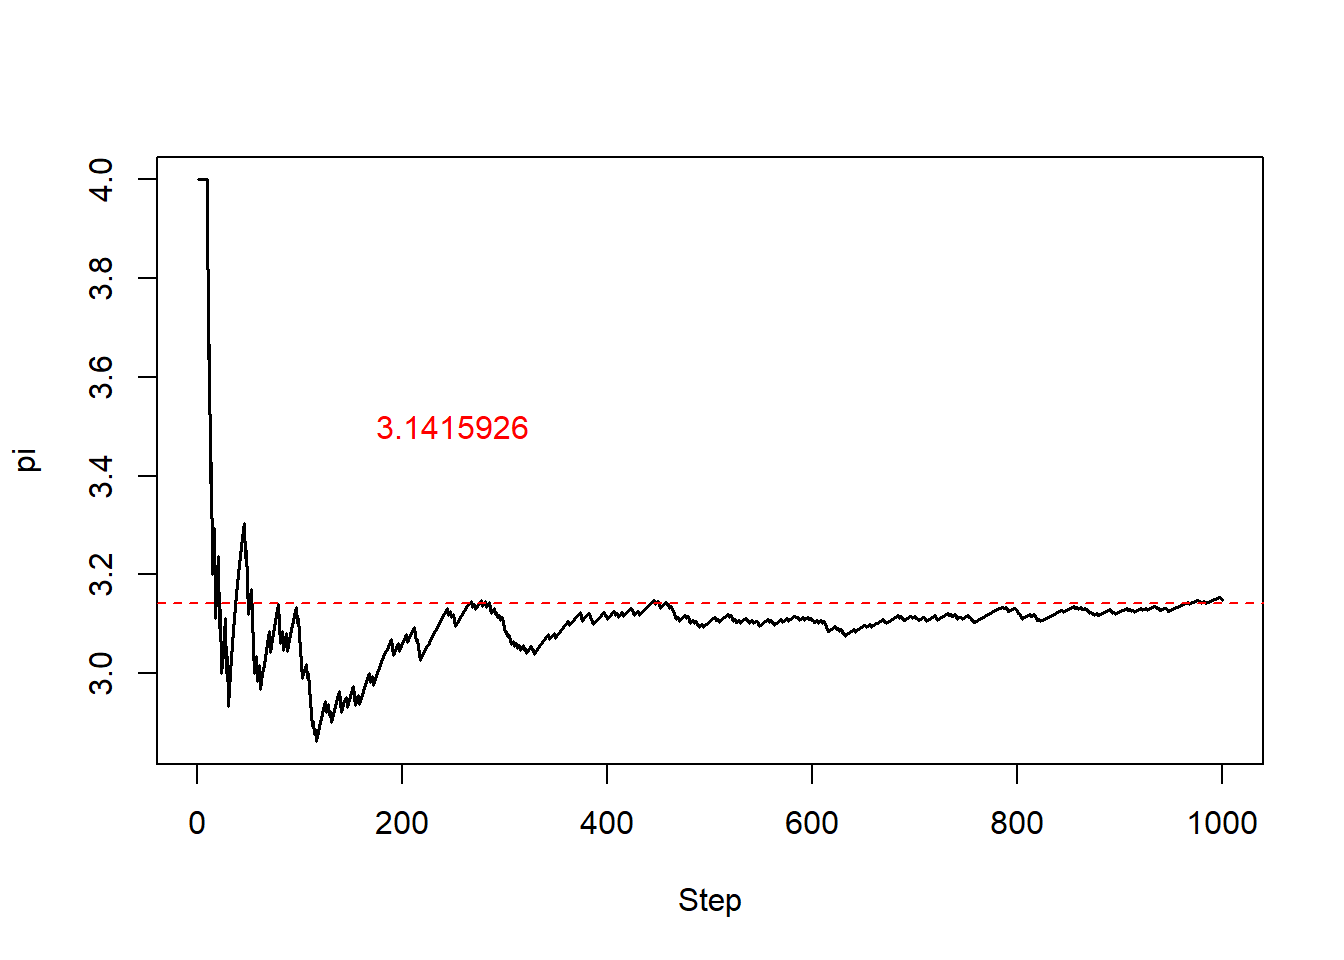
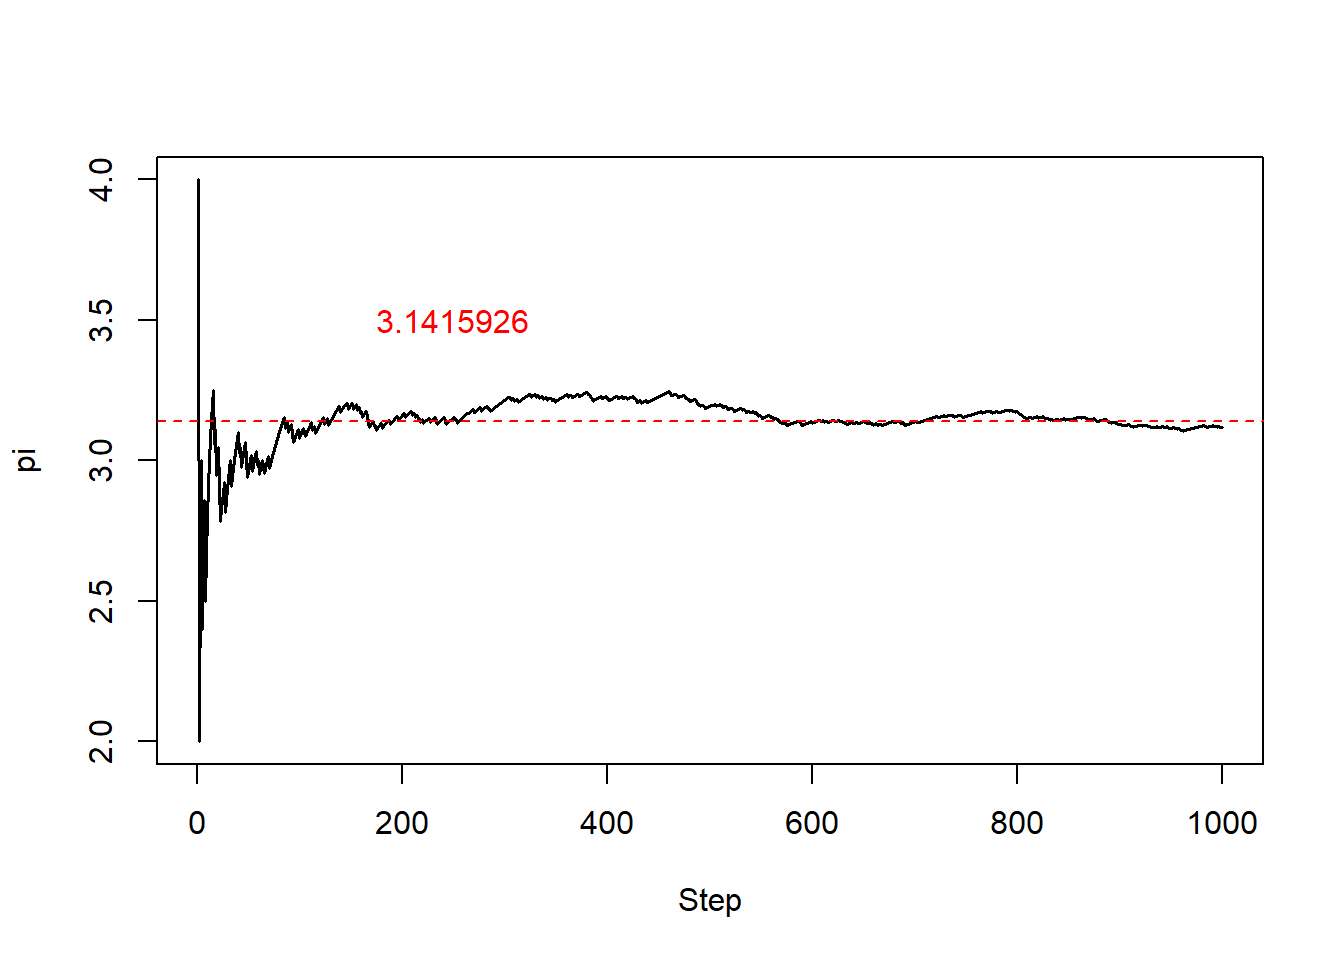
Update schdule

diff --git a/docs/Section_01.html b/docs/Section_01.html
@@ -723,7 +723,7 @@ Hopefully, this course will make your life easier when it comes to interpret and
 <span id="cb2-7"><a href="#cb2-7"></a><span class="kw">text</span>(<span class="fl">0.25</span><span class="op">*</span>TotalDraw,<span class="fl">3.5</span>,<span class="st">&quot;3.1415926&quot;</span>,<span class="dt">cex=</span><span class="dv">1</span>,<span class="dt">col=</span><span class="st">&quot;red&quot;</span>)</span></code></pre></div>
 <p><img src="Section_01_files/figure-html/unnamed-chunk-2-1.png" width="672" /></p>
 <div class="sourceCode" id="cb3"><pre class="sourceCode r"><code class="sourceCode r"><span id="cb3-1"><a href="#cb3-1"></a><span class="kw">print</span>(<span class="kw">paste</span>(<span class="st">&quot;Mean Pi from the last 100 steps is: &quot;</span>,<span class="kw">mean</span>(Results[TotalDraw<span class="dv">-99</span><span class="op">:</span>TotalDraw])))</span></code></pre></div>
-<pre><code>## [1] &quot;Mean Pi from the last 100 steps is:  3.10379936194361&quot;</code></pre>
+<pre><code>## [1] &quot;Mean Pi from the last 100 steps is:  3.15074396988628&quot;</code></pre>
 <p>Simulation with 100,000 random points yields a better result</p>
 <div class="sourceCode" id="cb5"><pre class="sourceCode r"><code class="sourceCode r"><span id="cb5-1"><a href="#cb5-1"></a><span class="co"># Draw 1E5 points</span></span>
 <span id="cb5-2"><a href="#cb5-2"></a>TotalDraw &lt;-<span class="st"> </span><span class="fl">1E5</span></span>
@@ -734,7 +734,7 @@ Hopefully, this course will make your life easier when it comes to interpret and
 <span id="cb5-7"><a href="#cb5-7"></a><span class="kw">text</span>(<span class="fl">0.25</span><span class="op">*</span>TotalDraw,<span class="fl">3.5</span>,<span class="st">&quot;3.1415926&quot;</span>,<span class="dt">cex=</span><span class="dv">1</span>,<span class="dt">col=</span><span class="st">&quot;red&quot;</span>)</span></code></pre></div>
 <p><img src="Section_01_files/figure-html/unnamed-chunk-3-1.png" width="672" /></p>
 <div class="sourceCode" id="cb6"><pre class="sourceCode r"><code class="sourceCode r"><span id="cb6-1"><a href="#cb6-1"></a><span class="kw">print</span>(<span class="kw">paste</span>(<span class="st">&quot;Mean Pi from the last 100 steps is: &quot;</span>,<span class="kw">mean</span>(Results[TotalDraw<span class="dv">-99</span><span class="op">:</span>TotalDraw])))</span></code></pre></div>
-<pre><code>## [1] &quot;Mean Pi from the last 100 steps is:  3.15114207680034&quot;</code></pre>
+<pre><code>## [1] &quot;Mean Pi from the last 100 steps is:  3.14576597637189&quot;</code></pre>
 <hr />
 </div>
 </div>

diff --git a/docs/Schedule.html b/docs/Schedule.html
@@ -335,7 +335,7 @@ Wednesday 19:00-21:00 / Friday (even weeks) 16:20-18:10</p>
 <td align="center"></td>
 </tr>
 <tr class="even">
-<td align="center">1</td>
+<td align="center">2</td>
 <td align="center">09/15</td>
 <td align="center">W.</td>
 <td align="left">Section 02 Version control with Git</td>
@@ -359,7 +359,7 @@ Wednesday 19:00-21:00 / Friday (even weeks) 16:20-18:10</p>
 <td align="center"></td>
 </tr>
 <tr class="odd">
-<td align="center">3</td>
+<td align="center">4</td>
 <td align="center">09/29</td>
 <td align="center">W.</td>
 <td align="left">Section 04 Python: Basics (II)</td>
@@ -383,7 +383,7 @@ Wednesday 19:00-21:00 / Friday (even weeks) 16:20-18:10</p>
 <td align="center"></td>
 </tr>
 <tr class="even">
-<td align="center">5</td>
+<td align="center">6</td>
 <td align="center">10/20</td>
 <td align="center">W.</td>
 <td align="left">Section 06 Intermediate Python: <code>Pandas</code></td>
@@ -407,7 +407,7 @@ Wednesday 19:00-21:00 / Friday (even weeks) 16:20-18:10</p>
 <td align="center"></td>
 </tr>
 <tr class="odd">
-<td align="center">7</td>
+<td align="center">8</td>
 <td align="center">11/03</td>
 <td align="center">W.</td>
 <td align="left">Section 08 Python: Plotting</td>
@@ -431,7 +431,7 @@ Wednesday 19:00-21:00 / Friday (even weeks) 16:20-18:10</p>
 <td align="center"></td>
 </tr>
 <tr class="even">
-<td align="center">9</td>
+<td align="center">10</td>
 <td align="center">11/17</td>
 <td align="center">W.</td>
 <td align="left">Section 10 Parallel programming in Python</td>
@@ -455,7 +455,7 @@ Wednesday 19:00-21:00 / Friday (even weeks) 16:20-18:10</p>
 <td align="center"></td>
 </tr>
 <tr class="odd">
-<td align="center">11</td>
+<td align="center">12</td>
 <td align="center">12/01</td>
 <td align="center">W.</td>
 <td align="left">Section 12 Linux: Shell scripts</td>
@@ -479,7 +479,7 @@ Wednesday 19:00-21:00 / Friday (even weeks) 16:20-18:10</p>
 <td align="center"></td>
 </tr>
 <tr class="even">
-<td align="center">13</td>
+<td align="center">14</td>
 <td align="center">12/15</td>
 <td align="center">W.</td>
 <td align="left">Section 14 FORTRAN: Intermediate</td>
@@ -503,7 +503,7 @@ Wednesday 19:00-21:00 / Friday (even weeks) 16:20-18:10</p>
 <td align="center"></td>
 </tr>
 <tr class="odd">
-<td align="center">15</td>
+<td align="center">16</td>
 <td align="center">12/29</td>
 <td align="center">W.</td>
 <td align="left">Final project presentation: Session 1</td>
